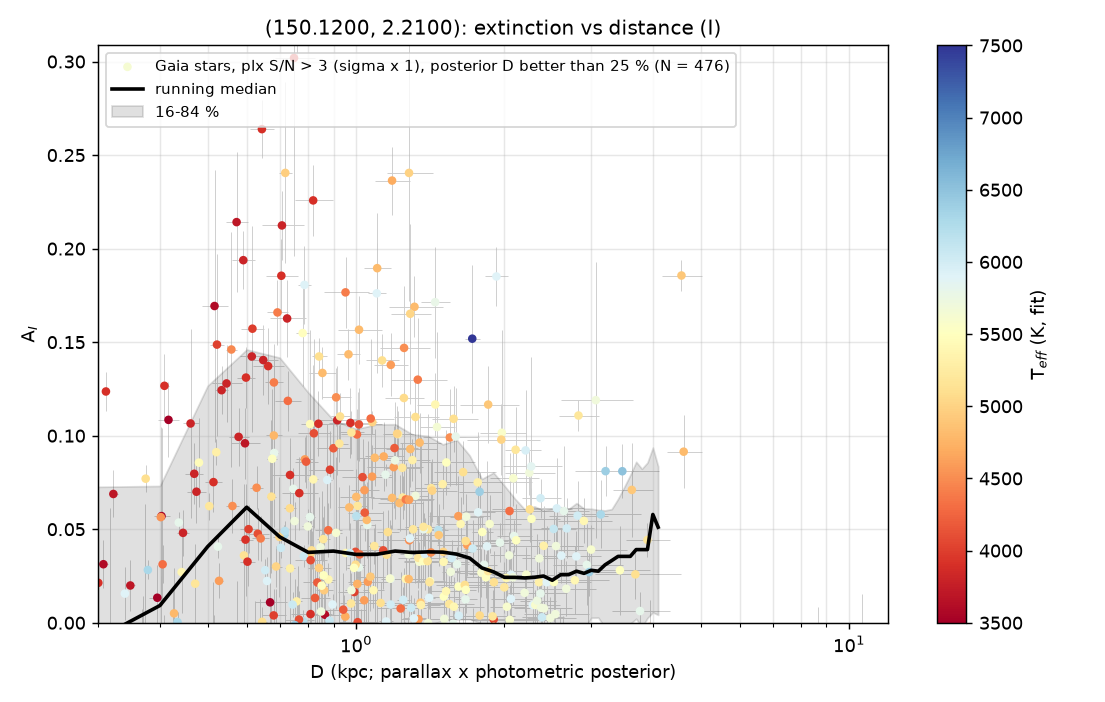
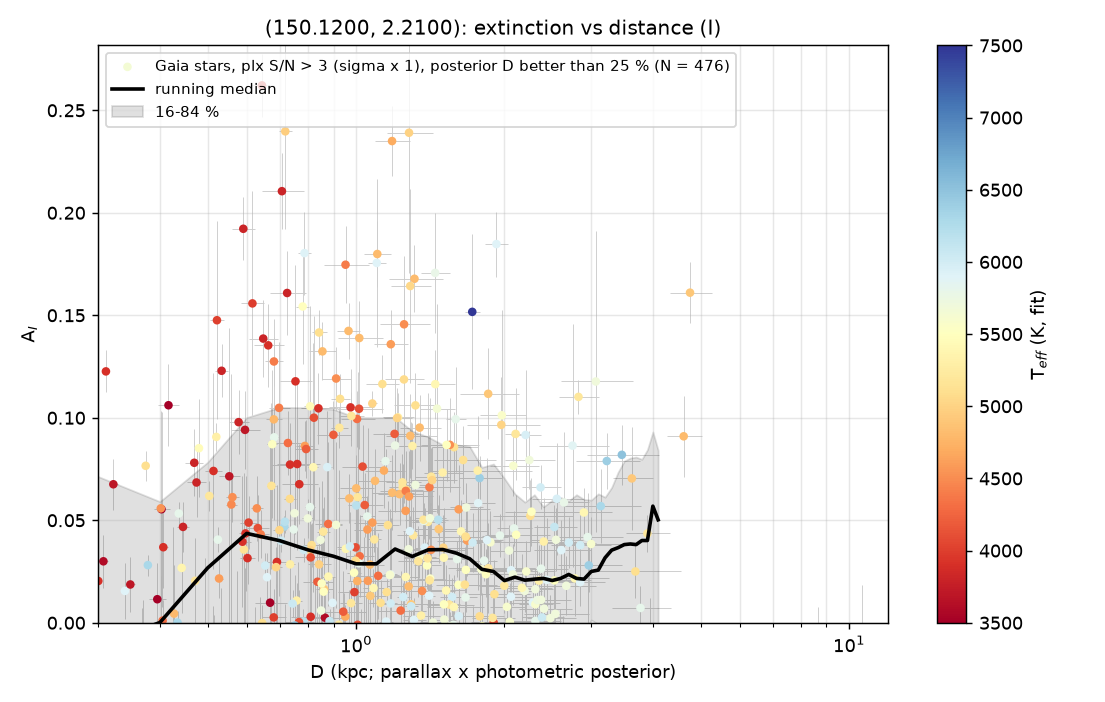
COSMOS example rerun with the alpha-corrected DESI [M/H] prior: F/G column 0.037 +/- 0.007

diff --git a/examples/cosmos/README.md b/examples/cosmos/README.md
@@ -15,14 +15,17 @@ dustline run 150.12 2.21 --radius 30 --no-spectro --ref-av 0.059 --plots nospec/
 
 (~18 min for the XP fetch, 5 min for the 4,366-model grid, ~10 min of fits.)
 
-## Result (local-mirror, 2026-10-01: scale-corrected DESI T_eff lock, the column-mode default)
+## Result (local-mirror, 2026-10-02: scale-corrected DESI T_eff lock + alpha-corrected [M/H] prior, the defaults)
 
 | sample (plx S/N > 5, D > 0.5 kpc) | N | A_V median | ± (bootstrap) |
 |---|---|---|---|
-| **F/G stars, T_eff ≥ 5500 K** (the headline column) | 138 | **0.039** | 0.007 |
-| … with a DESI prior | 85 | 0.043 | 0.008 |
-| K/M stars, T_eff < 5500 K | 221 | 0.083 | 0.011 |
-| G < 14 / 14–15.5 / 15.5–16.5 / ≥ 16.5 | 40 / 89 / 100 / 130 | 0.002 / 0.052 / 0.060 / 0.109 | 0.015 / 0.008 / 0.011 / 0.015 |
+| **F/G stars, T_eff ≥ 5500 K** (the headline column) | 141 | **0.037** | 0.007 |
+| … with a DESI prior | 87 | 0.040 | 0.008 |
+| K/M stars, T_eff < 5500 K | 218 | 0.072 | 0.008 |
+| G < 14 / 14–15.5 / 15.5–16.5 / ≥ 16.5 | 40 / 89 / 100 / 130 | 0.001 / 0.047 / 0.056 / 0.075 | 0.012 / 0.009 / 0.010 / 0.013 |
+
+(2026-10-01, before the alpha-corrected [M/H] prior: 0.039 ± 0.007; DESI [Fe/H] now enters as
+[Fe/H] + log10(0.638 × 10^[α/Fe] + 0.362), `benchmarks/desi_labels`.)
 
 References: DESI stellar-reddening map (Zhou+24) 0.045 (g−r) – 0.055 (r−z), SFD × 0.86 0.051,
 Edenhofer+23 0.081. T_eff is locked to each star's DESI label shifted onto the colour scale of
